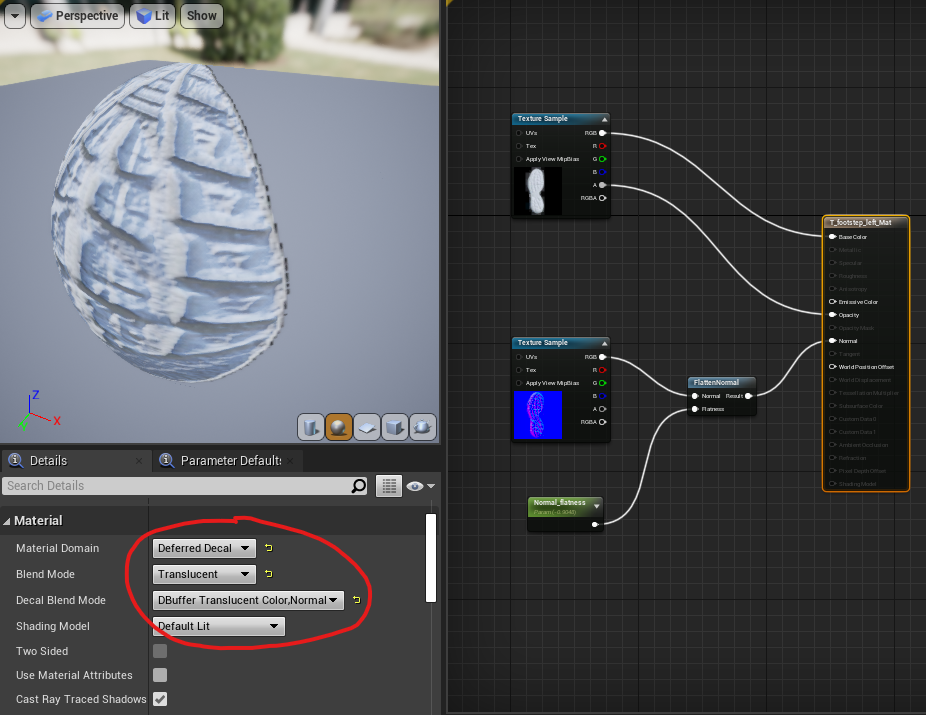
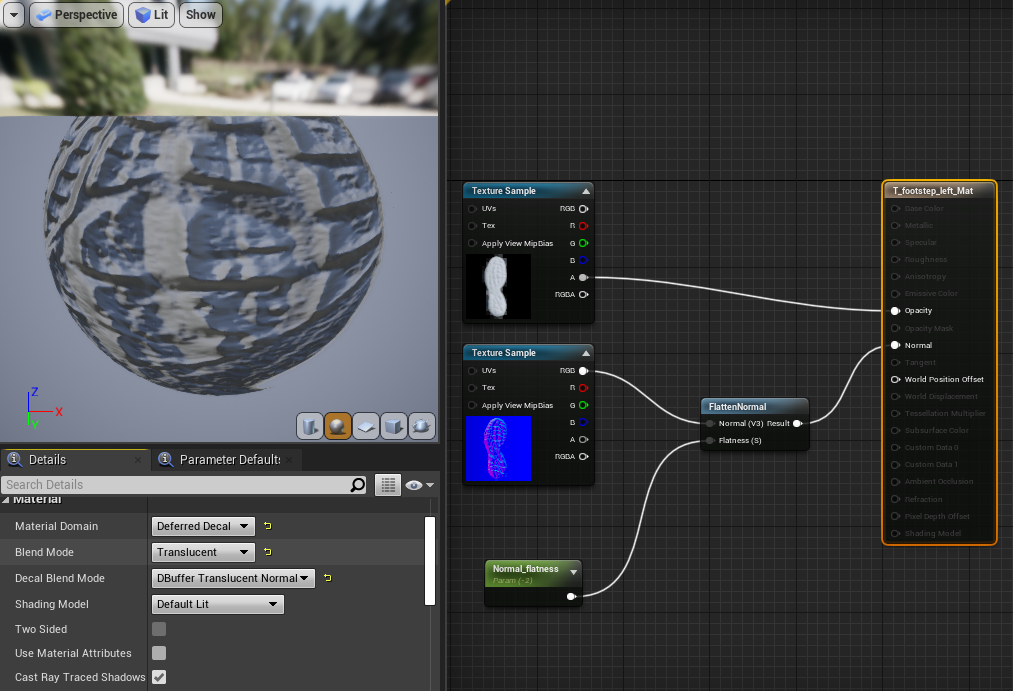
Changed a few images and gifs

diff --git a/_posts/2021-10-13-Footstep-System.md b/_posts/2021-10-13-Footstep-System.md
@@ -15,7 +15,7 @@ Before starting working on the actual blueprints, I made a clear list of things 
 
 - a footprint texture with a black background for each foot
 - a footprint normal for each foot
-- deferred decal materials for each foot base colour texture using the `dbuffer translucent color,normal` blending mode
+- deferred decal materials for each foot base colour texture using the `dbuffer translucent normal` blending mode
 - blueprints for each feet that uses a decal component with the materials created before
 
 # The process
@@ -64,7 +64,7 @@ Now that that's set up, I headed over to the **ThirdPersonAnimation blueprint** 
 
 Phew, that was a lot. Surprisingly, when I hit play, everything worked accordingly. All I needed to do now was to adjust the sizes of the decal blueprints to match the size of the player's foot. That took a bit of playing around, but in the end I got it to match pretty well.
 
-![](/uploads/footsteps.gif)
+![](/uploads/footprintdemo2.gif)
 
 Hope you enjoyed my little (not so little) tutorial. It was a long process, but thankfully google is a thing nowadays.
 
